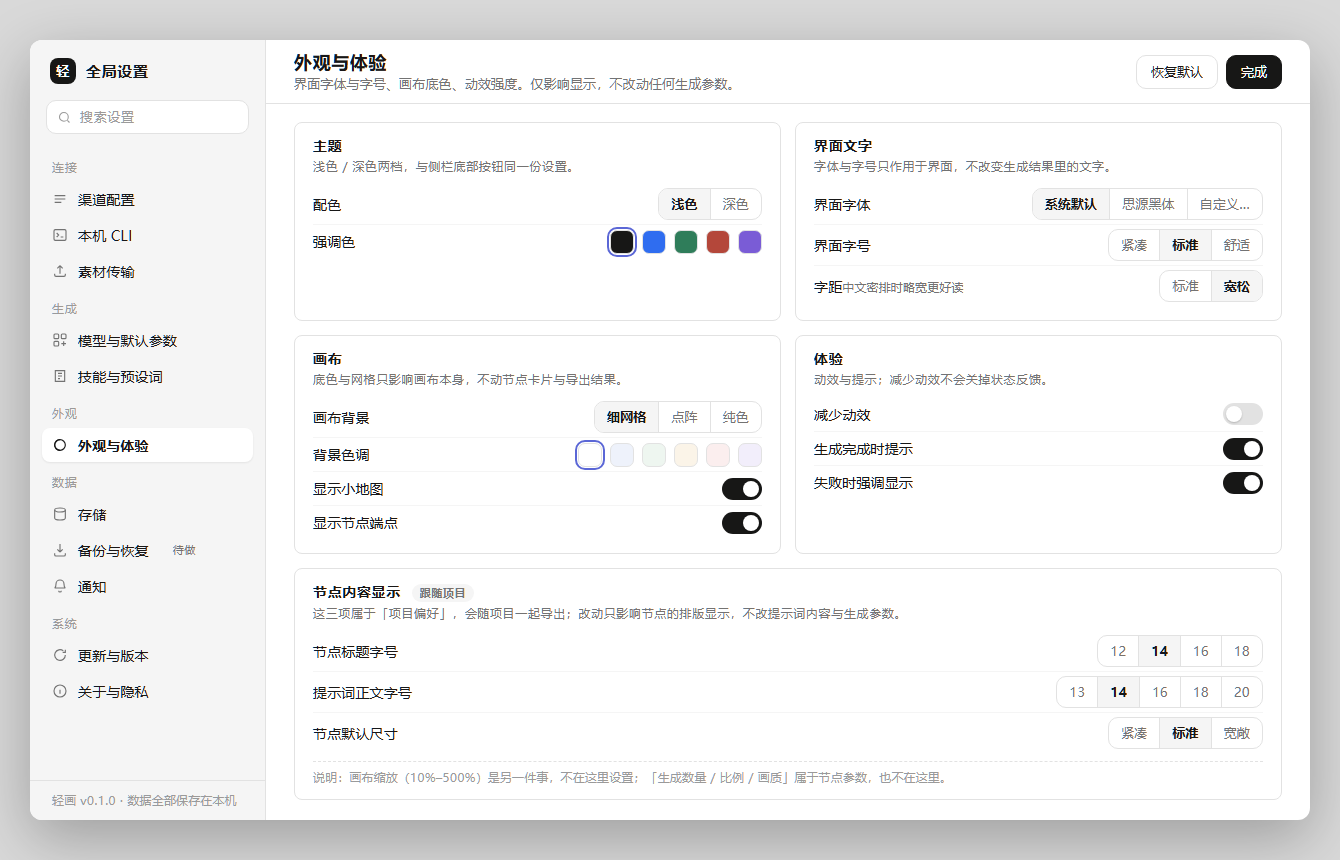
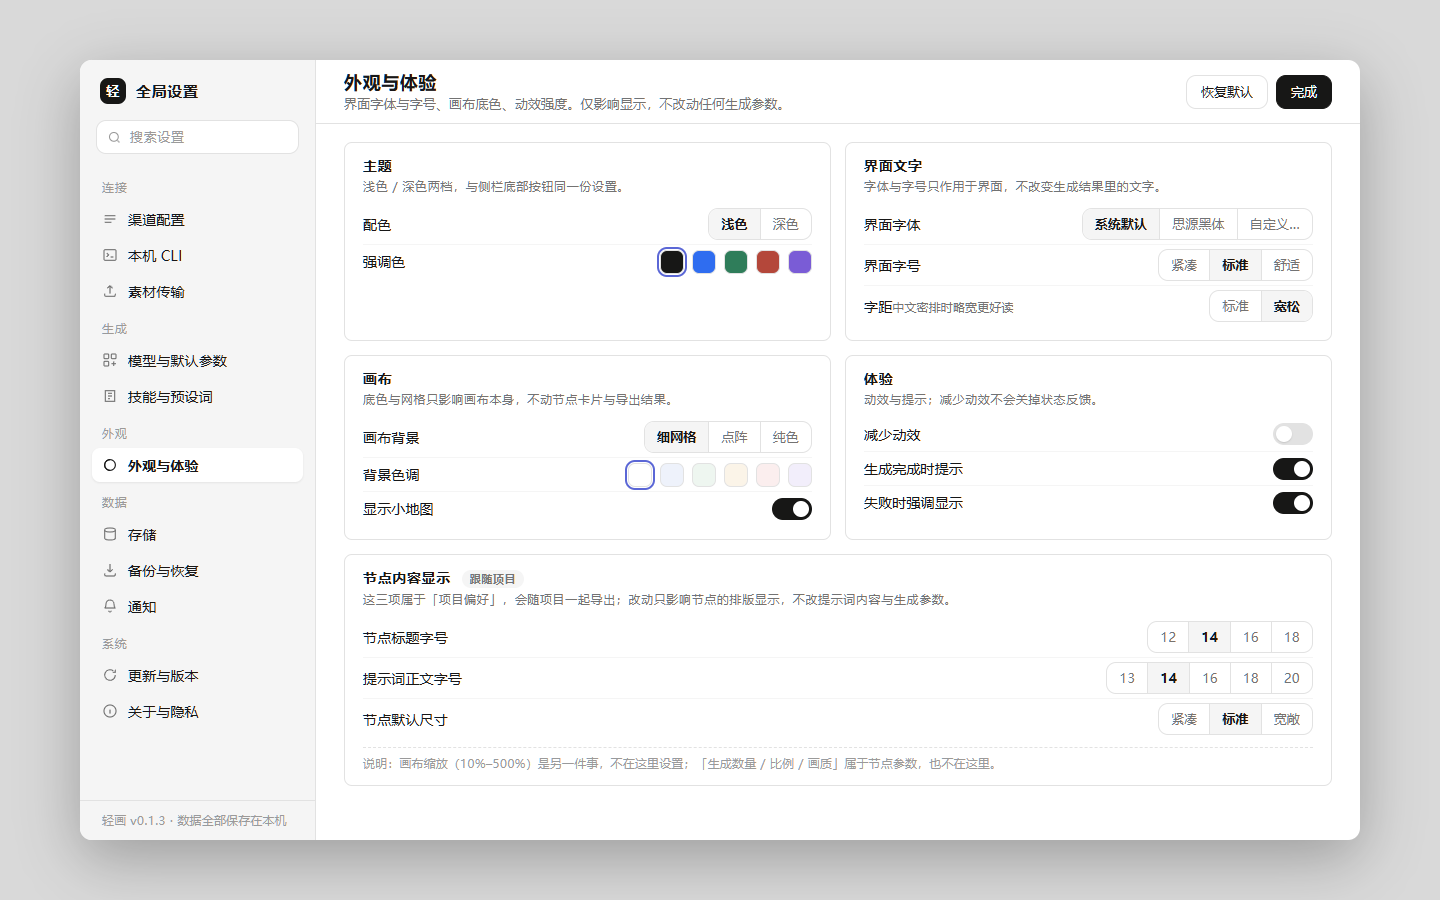
docs: 对齐设置页设计稿与当前设置状态

diff --git a/.workbuddy/mockups/settings-mockup.html b/.workbuddy/mockups/settings-mockup.html
@@ -259,14 +259,14 @@
 
     <div class="group-title">数据</div>
     <div class="item"><svg viewBox="0 0 24 24" fill="none" stroke="currentColor" stroke-width="1.7"><ellipse cx="12" cy="6" rx="8" ry="3"/><path d="M4 6v12c0 1.7 3.6 3 8 3s8-1.3 8-3V6"/></svg>存储</div>
-    <div class="item"><svg viewBox="0 0 24 24" fill="none" stroke="currentColor" stroke-width="1.7"><path d="M12 3v12m0 0l-4-4m4 4l4-4"/><path d="M4 17v2a2 2 0 0 0 2 2h12a2 2 0 0 0 2-2v-2"/></svg>备份与恢复<span class="tag">待做</span></div>
+    <div class="item"><svg viewBox="0 0 24 24" fill="none" stroke="currentColor" stroke-width="1.7"><path d="M12 3v12m0 0l-4-4m4 4l4-4"/><path d="M4 17v2a2 2 0 0 0 2 2h12a2 2 0 0 0 2-2v-2"/></svg>备份与恢复</div>
     <div class="item"><svg viewBox="0 0 24 24" fill="none" stroke="currentColor" stroke-width="1.7"><path d="M6 9a6 6 0 0 1 12 0c0 5 2 6 2 6H4s2-1 2-6z"/><path d="M10 19a2 2 0 0 0 4 0"/></svg>通知</div>
 
     <div class="group-title">系统</div>
     <div class="item"><svg viewBox="0 0 24 24" fill="none" stroke="currentColor" stroke-width="1.7"><path d="M20 12a8 8 0 1 1-3-6.2"/><path d="M20 4v4h-4"/></svg>更新与版本</div>
     <div class="item"><svg viewBox="0 0 24 24" fill="none" stroke="currentColor" stroke-width="1.7"><circle cx="12" cy="12" r="9"/><path d="M12 10v6M12 8h.01"/></svg>关于与隐私</div>
 
-    <div class="nav-foot">轻画 v0.1.0 · 数据全部保存在本机</div>
+    <div class="nav-foot">轻画 v0.1.3 · 数据全部保存在本机</div>
   </nav>
 
   <!-- ============ 右：外观与体验 ============ -->
@@ -339,10 +339,6 @@
         </div>
         <div class="row">
           <span class="label">显示小地图</span>
-          <span class="toggle on"></span>
-        </div>
-        <div class="row">
-          <span class="label">显示节点端点</span>
           <span class="toggle on"></span>
         </div>
       </div>
